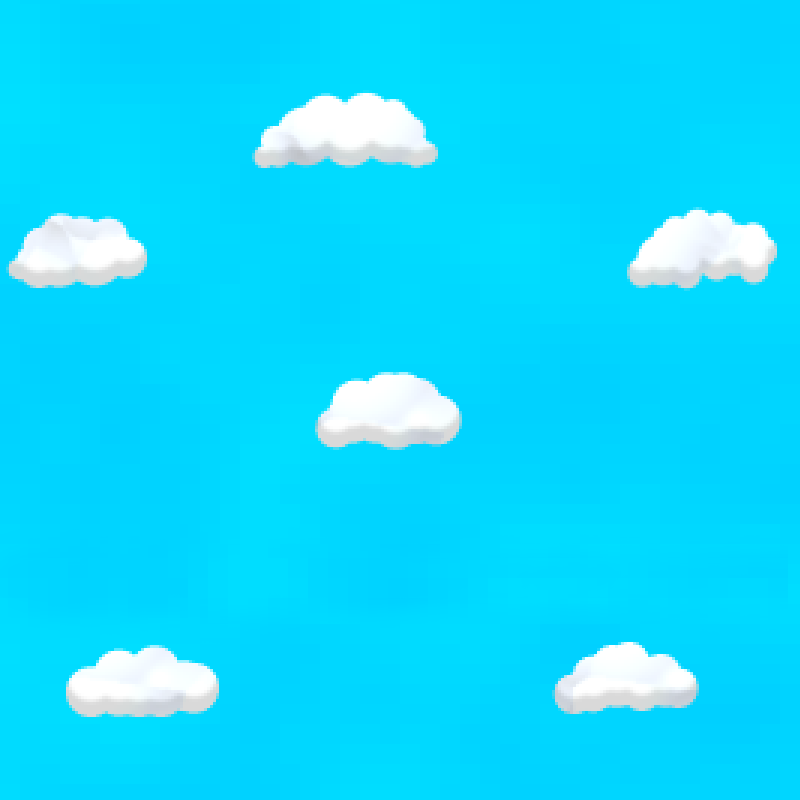
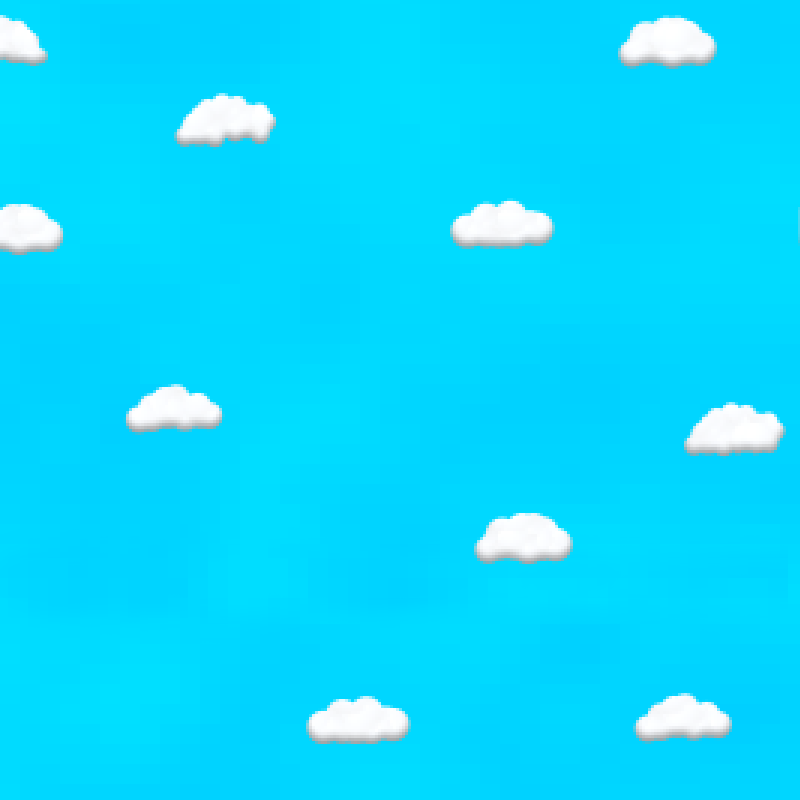
FEAT: Add paralax clouds

diff --git a/game.js b/game.js
@@ -130,12 +130,16 @@ var score = 0;
 var totalBeats = 0;
 var beatsCollected = 0;
 var beatsToWin = 0;
+var cloudGroup;
+var cloudDelay = 1000;
 
 
 function preload () {
     // loads images
     this.load.image('sky', './assets/images/sky.png');
+    this.load.image('backgroundClouds', './assets/images/background-clouds.png');
     this.load.image('beat', './assets/images/beat.png');
+    this.load.image('cloud', './assets/images/single-cloud.png');
     this.load.image('gameFailed', './assets/images/game-failed.png');
     this.load.image('titleScreen', './assets/images/title-screen.png');
     this.load.image('winSprite', './assets/images/win-player-sprite.png');
@@ -155,6 +159,10 @@ function preload () {
 function create () {
     // Sky image (added as tileSprite to access the scrolling method)
     sky = this.add.tileSprite(400, 300, 800, 600, 'sky');
+    backgroundClouds = this.add.tileSprite(400, 300, 800, 600, 'backgroundClouds');
+    // Creates cloud generator
+    cloudGroup = this.add.group();
+    cloudGenerator = this.time.addEvent({ delay: cloudDelay, callback: makeCloud, callbackScope: this, loop: true, paused: false });
 
     // Create the group for beats
     beatsGroup = this.add.group();
@@ -234,6 +242,7 @@ function create () {
 function update () {
     // Tells the sky to scroll at a specific speed
     sky.tilePositionY += 0.2;
+    backgroundClouds.tilePositionY += 0.4;
 
     // Player movement
     if (allowControl == true) {
@@ -355,6 +364,13 @@ function beatRemover() {
             resetMultiplier()
         };
     });
+
+    // Removes Clouds
+    cloudGroup.children.each(function(cloud) {
+        if (cloud.y < -300) {
+            cloud.destroy();
+        };
+    });
 }
 
 
@@ -415,4 +431,23 @@ function countTotalBeats(ele) {
     if(ele != 0) {
         totalBeats++;
     }
+}
+
+function makeCloud() {
+    // Find position
+    position = Phaser.Math.Between(0,800);
+    speed = Phaser.Math.Between(-350,-2000);
+    size = Phaser.Math.Between(1.1,2.5);
+
+    // Make Cloud
+    var newCloud = this.physics.add.sprite(position, 1500,'cloud');
+    newCloud.allowGravity = false;
+    newCloud.setVelocityY(speed);
+    newCloud.setVelocityX(0);
+    newCloud.setMaxVelocity(500); 
+    newCloud.setScale(size);
+    newCloud.alpha = 0.3;
+    cloudGroup.add(newCloud);
+    // Change function fire time randomly
+    cloudDelay = Phaser.Math.Between(250,1500)
 }
